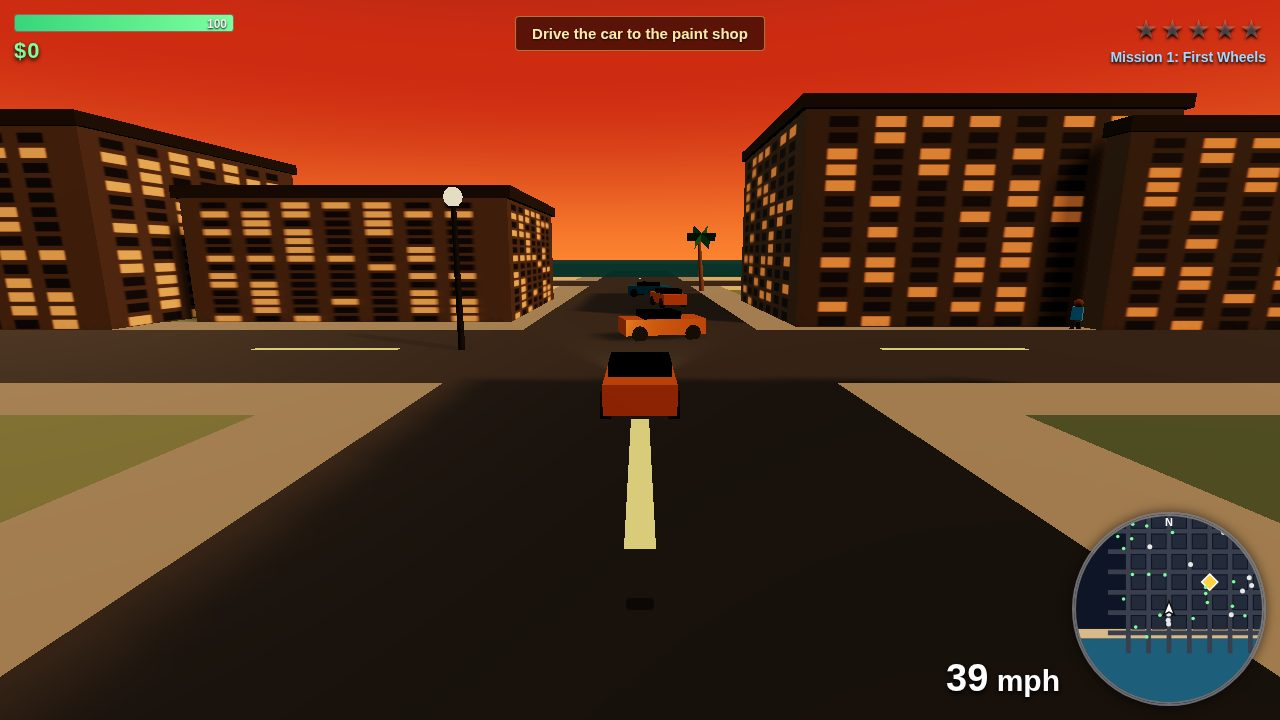
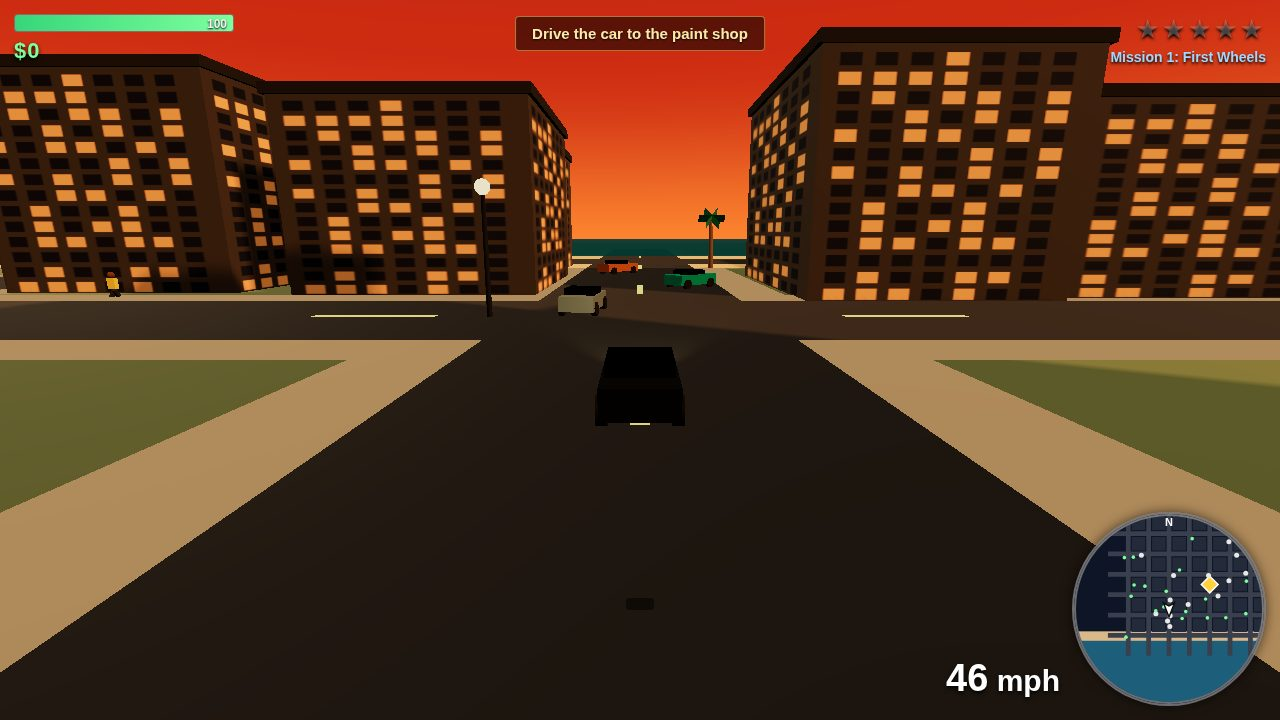
Neon Harbor v2: fix save/continue, camera, steal radius, minimap, wanted, punch
- Save/Continue now persists mission step + stolen car and restores both;
  Continue also restarts the step timer and never spawns inside a building
- Camera is clamped out of building colliders (no more wall-clip on Continue)
- Steal prompt uses the car's bounding box, 5 m radius (was 3.6 m centre)
- Minimap arrow: rotate by PI - heading, so north reads as north
- Wanted decays after 40 s unseen (was 14 s); police spawn 45-65 m away on
  a nearby road; police-car ram has a 1 s per-car cooldown
- Punch: visible swing (punchAnim applied in footMove), shake + hit message
- Mission-complete staging now shows the true total ($150 for mission 1,
  was a bogus $450); scene brightened (exposure 1.2, hemi 1.6)
- All four screenshots re-shot headless at 1280x720, each < 256 KiB

Headless Chromium suite: 37/37 checks pass (walk, drive, steal, wanted,
mission 2 90 s timer end-to-end + expiry, save/reload/Continue, punch,
BUSTED, WASTED, minimap pixel probe, mouse drag + pointer lock).

diff --git a/game/src/police.js b/game/src/police.js
@@ -1,7 +1,7 @@
 // Neon Harbor — the wanted system: stars, heat decay, police cars that
 // chase and ram, foot officers who can bust the player.
 import * as THREE from 'three';
-import { rand, pick, clamp, dist2D, angleLerp, collideCircle, inWorldBounds } from './state.js';
+import { rand, clamp, dist2D, angleLerp, collideCircle, inWorldBounds } from './state.js';
 import { createCar } from './vehicles.js';
 import { damagePlayer } from './player.js';
 
@@ -39,13 +39,19 @@ export class Police {
 
   spawnPoliceCar(G) {
     const p = G.player.pos;
-    // spawn on a road at the city edge, away from the player
-    const edge = pick([
-      { x: -210, z: rand(-180, 140) }, { x: 210, z: rand(-180, 140) },
-      { x: rand(-210, 210), z: -210 }, { x: rand(-210, 210), z: 150 },
-    ]);
+    // spawn on a nearby road so the player actually sees the response,
+    // instead of at the city edge where the car takes a minute to arrive
+    const a = rand(0, Math.PI * 2), d = rand(45, 65);
+    let x = clamp(p.x + Math.cos(a) * d, -230, 230);
+    let z = clamp(p.z + Math.sin(a) * d, -230, 190);
+    // snap to the nearest road line so the car starts on a street
+    let bestRx = G.roads.xs[0], bestRd = Infinity;
+    for (const rx of G.roads.xs) { const dd = Math.abs(x - rx); if (dd < bestRd) { bestRd = dd; bestRx = rx; } }
+    let bestRz = G.roads.zs[0], bestZd = Infinity;
+    for (const rz of G.roads.zs) { const dd = Math.abs(z - rz); if (dd < bestZd) { bestZd = dd; bestRz = rz; } }
+    if (bestRd <= bestZd) x = bestRx; else z = bestRz;
     const car = createCar(G, {
-      x: edge.x, z: edge.z, heading: 0, color: 0xf5f5f5, name: 'Harbor PD', isPolice: true,
+      x, z, heading: 0, color: 0xf5f5f5, name: 'Harbor PD', isPolice: true,
     });
     car.maxSpeed = 34;
     G.policeCars.push(car);
@@ -86,7 +92,9 @@ export class Police {
       for (const car of G.policeCars) nearest = Math.min(nearest, dist2D(car.pos.x, car.pos.z, G.player.pos.x, G.player.pos.z));
       for (const off of G.officers) nearest = Math.min(nearest, dist2D(off.pos.x, off.pos.z, G.player.pos.x, G.player.pos.z));
       const seen = nearest < 55;
-      if (!seen && G.heatTimer > 14) {
+      // heat only fades after a long stretch unseen (was 14s: stars
+      // vanished before the player ever saw a police car)
+      if (!seen && G.heatTimer > 40) {
         G.wanted = Math.max(0, G.wanted - 1);
         G.heatTimer = 0;
         if (G.wanted === 0) { this.despawnAll(G); G.hud.showMessage('You lost the cops. Heat is off.'); }
@@ -124,8 +132,12 @@ export class Police {
       const res = collideCircle(G, nx, nz, 2.1);
       if (!res.hit && inWorldBounds(res.x, res.z)) { car.pos.x = res.x; car.pos.z = res.z; }
       else { car.speed *= 0.5; }
-      // ram the player's car / player
-      if (d < 4.6) {
+      // ram the player's car / player — one hit per car per second, so a
+      // police car parked on top of the player cannot machine-gun them
+      // to death before a foot officer can make the BUSTED arrest
+      car.ramCooldown = Math.max(0, (car.ramCooldown || 0) - dt);
+      if (d < 4.6 && car.ramCooldown <= 0) {
+        car.ramCooldown = 1.0;
         if (p.car) {
           p.car.speed *= 0.7;
           car.speed *= 0.5;

diff --git a/game/src/save.js b/game/src/save.js
@@ -1,5 +1,10 @@
-// Neon Harbor — save data in localStorage: cash, highest unlocked mission,
-// player position, health and wanted level.
+// Neon Harbor — save data in localStorage: cash, current mission and step,
+// player position, health and wanted level, plus the car the player is in
+// so Continue restores the mission mid-step instead of restarting it.
+import { collideCircle } from './state.js';
+import { MISSIONS } from './missions.js';
+import { enterCar } from './vehicles.js';
+
 const KEY = 'neon-harbor-save-v1';
 
 export class SaveData {
@@ -20,11 +25,20 @@ export class SaveData {
       const data = {
         cash: G.cash,
         missionIndex: Math.min(G.missionIndex, 4),
+        missionStep: G.missionStep || 0,
         pos: { x: G.player.pos.x, z: G.player.pos.z },
         health: G.player.health,
         wanted: G.wanted,
         savedAt: Date.now(),
       };
+      if (G.player.car) {
+        const c = G.player.car;
+        data.car = {
+          x: c.pos.x, z: c.pos.z, heading: c.heading,
+          name: c.name, color: c.color, isVan: !!c.isVan,
+          special: c.special || null,
+        };
+      }
       localStorage.setItem(KEY, JSON.stringify(data));
       return true;
     } catch (e) {
@@ -37,10 +51,44 @@ export class SaveData {
     G.player.health = data.health > 0 ? data.health : 100;
     G.wanted = 0; // always start clean after loading
     if (data.pos) {
-      G.player.pos.set(data.pos.x, 0, data.pos.z);
+      // never spawn inside a building: push the saved spot out of colliders
+      const res = collideCircle(G, data.pos.x, data.pos.z, 0.6);
+      G.player.pos.set(res.x, 0, res.z);
       G.player.mesh.position.copy(G.player.pos);
     }
-    return data.missionIndex || 0;
+    // restore the car the player was driving, if the save had one
+    if (data.car) this.restoreCar(G, data.car);
+    // clamp the saved step to the mission's real step count (old saves: 0)
+    const index = data.missionIndex || 0;
+    const steps = (MISSIONS[index] && MISSIONS[index].steps.length) || 1;
+    const step = Number.isInteger(data.missionStep) ? data.missionStep : 0;
+    return { index, step: Math.max(0, Math.min(step, steps - 1)) };
+  }
+
+  // Put the player back into the car they had when saving. Cars are
+  // re-spawned fresh on load, so match the special car by identity and any
+  // other car by the nearest parked car to where it was saved.
+  restoreCar(G, saved) {
+    let car = null;
+    if (saved.special) car = G.cars.find(c => c.special === saved.special);
+    if (!car) {
+      let best = null, bestD = 60;
+      for (const c of G.cars) {
+        if (c.isPolice || G.policeCars.includes(c) || !c.parked) continue;
+        const d = Math.hypot(c.pos.x - saved.x, c.pos.z - saved.z);
+        if (d < bestD) { bestD = d; best = c; }
+      }
+      car = best || G.cars.find(c => c.parked && !c.isPolice);
+    }
+    if (!car) return false;
+    car.pos.set(saved.x, 0, saved.z);
+    car.heading = saved.heading || 0;
+    car.speed = 0;
+    car.mesh.position.copy(car.pos);
+    car.mesh.rotation.y = car.heading;
+    enterCar(G, car);
+    car.stolen = true; // already stolen when saved — do not re-trigger wanted
+    return true;
   }
 
   exists() {

diff --git a/game/src/player.js b/game/src/player.js
@@ -37,7 +37,7 @@ export function createPlayer(G) {
     health: 100, maxHealth: 100,
     weapon: 'fists',           // 'fists' | 'pistol'
     ammo: 12, maxAmmo: 24,
-    punchCooldown: 0, shootCooldown: 0,
+    punchCooldown: 0, shootCooldown: 0, punchAnim: 0,
     car: null,                 // car the player is driving, or null
     speed: 0, walkPhase: 0,
     invuln: 0,
@@ -81,6 +81,8 @@ function footMove(G, dt) {
   const swing = p.speed > 0 ? Math.sin(p.walkPhase) * 0.55 : 0;
   p.legL.rotation.x = swing; p.legR.rotation.x = -swing;
   p.armL.rotation.x = -swing * 0.8; p.armR.rotation.x = swing * 0.8;
+  // a punch swing overrides the walk cycle while it plays
+  if (p.punchAnim > 0) { p.armR.rotation.x = -1.4; p.armL.rotation.x = 0.4; }
   p.mesh.position.copy(p.pos);
   p.mesh.rotation.y = p.heading;
   p.gun.visible = p.weapon === 'pistol';
@@ -102,6 +104,9 @@ function updateCamera(G, dt) {
     const cx = target.x + Math.sin(back) * dist;
     const cz = target.z + Math.cos(back) * dist;
     const want = new THREE.Vector3(cx, height, cz);
+    // keep the camera out of buildings (e.g. after a Continue spawn)
+    const clipped = collideCircle(G, want.x, want.z, 1.0);
+    want.x = clipped.x; want.z = clipped.z;
     cam.position.lerp(want, Math.min(1, dt * 5));
     cam.lookAt(target.x, target.y, target.z);
   } else {
@@ -112,6 +117,9 @@ function updateCamera(G, dt) {
     const cz = target.z + Math.cos(G.cameraYaw) * Math.cos(cy) * dist;
     const cyy = target.y + Math.sin(cy) * dist + 1.2;
     const want = new THREE.Vector3(cx, cyy, cz);
+    // keep the camera out of buildings (e.g. after a Continue spawn)
+    const clipped = collideCircle(G, want.x, want.z, 1.0);
+    want.x = clipped.x; want.z = clipped.z;
     cam.position.lerp(want, Math.min(1, dt * 10));
     cam.lookAt(target);
   }
@@ -133,6 +141,7 @@ export function updatePlayer(G, dt) {
   if (!p) return;
   p.punchCooldown = Math.max(0, p.punchCooldown - dt);
   p.shootCooldown = Math.max(0, p.shootCooldown - dt);
+  p.punchAnim = Math.max(0, (p.punchAnim || 0) - dt);
   p.invuln = Math.max(0, p.invuln - dt);
   if (p.car) {
     // player rides in the car; mesh hidden inside

diff --git a/game/src/main.js b/game/src/main.js
@@ -29,7 +29,7 @@ function initRenderer() {
   renderer.shadowMap.type = THREE.PCFSoftShadowMap;
   renderer.outputColorSpace = THREE.SRGBColorSpace;
   renderer.toneMapping = THREE.ACESFilmicToneMapping;
-  renderer.toneMappingExposure = 1.05;
+  renderer.toneMappingExposure = 1.2;
   G.renderer = renderer;
   G.scene = new THREE.Scene();
   G.camera = new THREE.PerspectiveCamera(65, window.innerWidth / window.innerHeight, 0.1, 1500);
@@ -91,7 +91,7 @@ function initInput() {
 function tryEnterExitCar() {
   const p = G.player;
   if (p.car) { exitCar(G); return; }
-  const car = nearestCar(G, p.pos, 3.6);
+  const car = nearestCar(G, p.pos, 5.0);
   if (!car) return;
   enterCar(G, car);
   G.stats.carsStolen++;
@@ -171,9 +171,14 @@ function startGame(missionIndex, useSave) {
   document.getElementById('title-screen').classList.add('hidden');
   G.hud.show();
   let startMission = missionIndex ?? 0;
+  let resumeStep = 0;
   if (useSave) {
     const data = G.save.load();
-    if (data) startMission = G.save.apply(G, data);
+    if (data) {
+      const resumed = G.save.apply(G, data);
+      startMission = resumed.index;
+      resumeStep = resumed.step;
+    }
   } else {
     G.cash = 0;
     G.player.pos.set(-60, 0, -34);
@@ -181,7 +186,7 @@ function startGame(missionIndex, useSave) {
     G.wanted = 0;
   }
   G.mode = 'playing';
-  G.missions.startMission(G, startMission, true);
+  G.missions.startMission(G, startMission, true, resumeStep);
   G.hud.showMessage('Welcome to Neon Harbor, Cole.');
 }
 
@@ -242,7 +247,7 @@ function update(dt) {
   // interact prompt
   const p = G.player;
   if (!p.car) {
-    const car = nearestCar(G, p.pos, 3.6);
+    const car = nearestCar(G, p.pos, 5.0);
     const el = document.getElementById('interact');
     if (car) { el.textContent = `Press E — steal the ${car.name}`; el.classList.remove('hidden'); }
     else el.classList.add('hidden');

diff --git a/game/src/combat.js b/game/src/combat.js
@@ -24,25 +24,30 @@ export class Combat {
     const p = G.player;
     if (p.punchCooldown > 0) return;
     p.punchCooldown = 0.35;
+    p.punchAnim = 0.22; // visible swing — applied in footMove, which owns the arms
     G.audio.punch();
+    G.fx.shake(0.12);
     const fx = Math.sin(p.heading), fz = Math.cos(p.heading);
     const targets = [];
     for (const e of G.enemies) targets.push({ obj: e, d: dist2D(p.pos.x, p.pos.z, e.pos.x, e.pos.z), hp: 'enemy' });
     for (const off of G.officers) targets.push({ obj: off, d: dist2D(p.pos.x, p.pos.z, off.pos.x, off.pos.z), hp: 'officer' });
     for (const ped of G.peds) if (ped.state !== 'down') targets.push({ obj: ped, d: dist2D(p.pos.x, p.pos.z, ped.pos.x, ped.pos.z), hp: 'ped' });
+    let hit = false;
     for (const t of targets) {
       if (t.d < 2.4) {
         const dx = t.obj.pos.x - p.pos.x, dz = t.obj.pos.z - p.pos.z;
         const facing = (dx * fx + dz * fz) / (t.d || 1);
         if (facing > 0.3) {
           this.hitTarget(G, t.obj, t.hp, 34, new THREE.Vector3(p.pos.x, 1.4, p.pos.z));
+          hit = true;
           break;
         }
       }
     }
-    // swing animation
-    p.armR.rotation.x = -1.4;
-    setTimeout(() => { p.armR.rotation.x = 0; }, 180);
+    if (hit) {
+      G.fx.shake(0.35);
+      G.hud.showMessage('Punch landed!');
+    }
   }
 
   shoot(G) {

diff --git a/game/src/shots.js b/game/src/shots.js
@@ -89,7 +89,7 @@ export function stageShot(G, shot) {
     G.hud.show();
     G.missions.startMission(G, 0, false);
     G.missionIndex = 0;
-    G.cash = 450;
+    G.cash = 150; // mission 1 pays $150 and the player starts at $0
     const car = G.cars.find(c => c.parked) || G.cars[0];
     car.pos.set(G.markers.garage.x + 6, 0, G.markers.garage.z);
     car.heading = Math.PI / 2;
@@ -99,7 +99,7 @@ export function stageShot(G, shot) {
     G.player.mesh.position.copy(G.player.pos);
     document.getElementById('mission-panel-title').textContent = 'MISSION COMPLETE';
     document.getElementById('mission-panel-text').textContent = 'First Wheels — nicely driven, Cole.';
-    document.getElementById('mission-panel-reward').textContent = 'Reward: $150  •  Total cash: $450';
+    document.getElementById('mission-panel-reward').textContent = 'Reward: $150  •  Total cash: $150';
     document.getElementById('mission-panel').classList.remove('hidden');
     G.camera.position.set(G.markers.garage.x - 14, 6, G.markers.garage.z + 12);
     G.camera.lookAt(G.markers.garage.x, 1.5, G.markers.garage.z);

diff --git a/game/src/hud.js b/game/src/hud.js
@@ -148,11 +148,14 @@ export class HUD {
     for (const off of G.officers) dot(off.pos.x, off.pos.z, 2.5, '#ff8888');
     for (const ped of G.peds) dot(ped.pos.x, ped.pos.z, 1.8, '#7dff9e');
     for (const e of G.enemies) dot(e.pos.x, e.pos.z, 3, '#ff2222');
-    // player arrow (north-up, rotates with heading)
+    // player arrow (north-up, rotates with heading). Heading is
+    // atan2(fx, fz): 0 faces +z (south, map down), PI faces -z (north, map
+    // up) — so the arrow needs PI - heading, not heading, or north reads
+    // as south.
     const heading = G.player.car ? G.player.car.heading : G.player.heading;
     ctx.save();
     ctx.translate(C, C);
-    ctx.rotate(heading);
+    ctx.rotate(Math.PI - heading);
     ctx.fillStyle = '#fff';
     ctx.strokeStyle = '#111'; ctx.lineWidth = 1.5;
     ctx.beginPath(); ctx.moveTo(0, -8); ctx.lineTo(5.5, 6); ctx.lineTo(0, 3); ctx.lineTo(-5.5, 6); ctx.closePath();

diff --git a/game/src/vehicles.js b/game/src/vehicles.js
@@ -259,7 +259,15 @@ export function nearestCar(G, pos, maxDist) {
   let best = null, bestD = maxDist;
   for (const car of G.cars) {
     if (car.isPolice && G.policeCars.includes(car)) continue;
-    const d = Math.hypot(car.pos.x - pos.x, car.pos.z - pos.z);
+    // distance to the car's oriented bounding box, not its centre, so the
+    // steal prompt also appears at the nose and tail, not just the doors
+    const dx = pos.x - car.pos.x, dz = pos.z - car.pos.z;
+    const along = dx * Math.sin(car.heading) + dz * Math.cos(car.heading);
+    const side = dx * Math.cos(car.heading) - dz * Math.sin(car.heading);
+    const halfLen = car.isVan ? 2.8 : 2.2, halfWid = 1.0;
+    const ox = Math.max(Math.abs(along) - halfLen, 0);
+    const oz = Math.max(Math.abs(side) - halfWid, 0);
+    const d = Math.hypot(ox, oz);
     if (d < bestD) { bestD = d; best = car; }
   }
   return best;

diff --git a/game/src/missions.js b/game/src/missions.js
@@ -66,9 +66,10 @@ export class Missions {
     return m ? m.steps[this.G.missionStep] : null;
   }
 
-  startMission(G, index, showBriefing = true) {
+  startMission(G, index, showBriefing = true, startStep = 0) {
     G.missionIndex = index;
-    G.missionStep = 0;
+    const steps = (MISSIONS[index] && MISSIONS[index].steps.length) || 1;
+    G.missionStep = Math.max(0, Math.min(startStep | 0, steps - 1));
     G.missionActive = true;
     G.missionDone = false;
     G.missionTimer = 0;

diff --git a/game/src/city.js b/game/src/city.js
@@ -29,7 +29,7 @@ export function buildCity(G) {
   // ---- sky, fog, sun ----
   scene.background = new THREE.Color(0x2a2f55);
   scene.fog = new THREE.Fog(0x3a3560, 180, 620);
-  const hemi = new THREE.HemisphereLight(0xffd9a8, 0x3a4a60, 1.45);
+  const hemi = new THREE.HemisphereLight(0xffd9a8, 0x3a4a60, 1.6);
   scene.add(hemi);
   const sun = new THREE.DirectionalLight(0xffb36b, 2.6);
   sun.position.set(-140, 120, -90);
